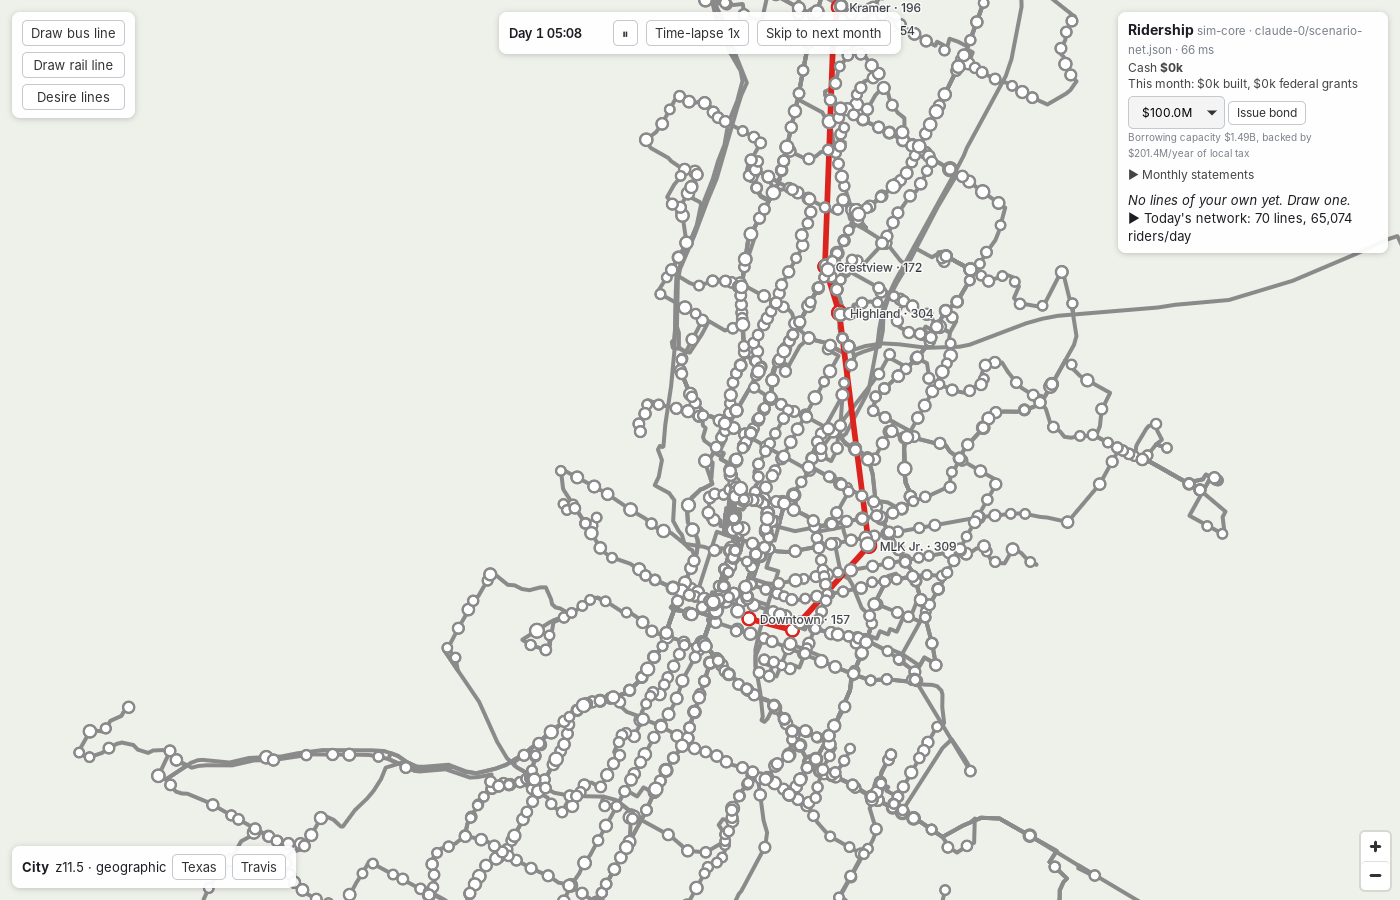
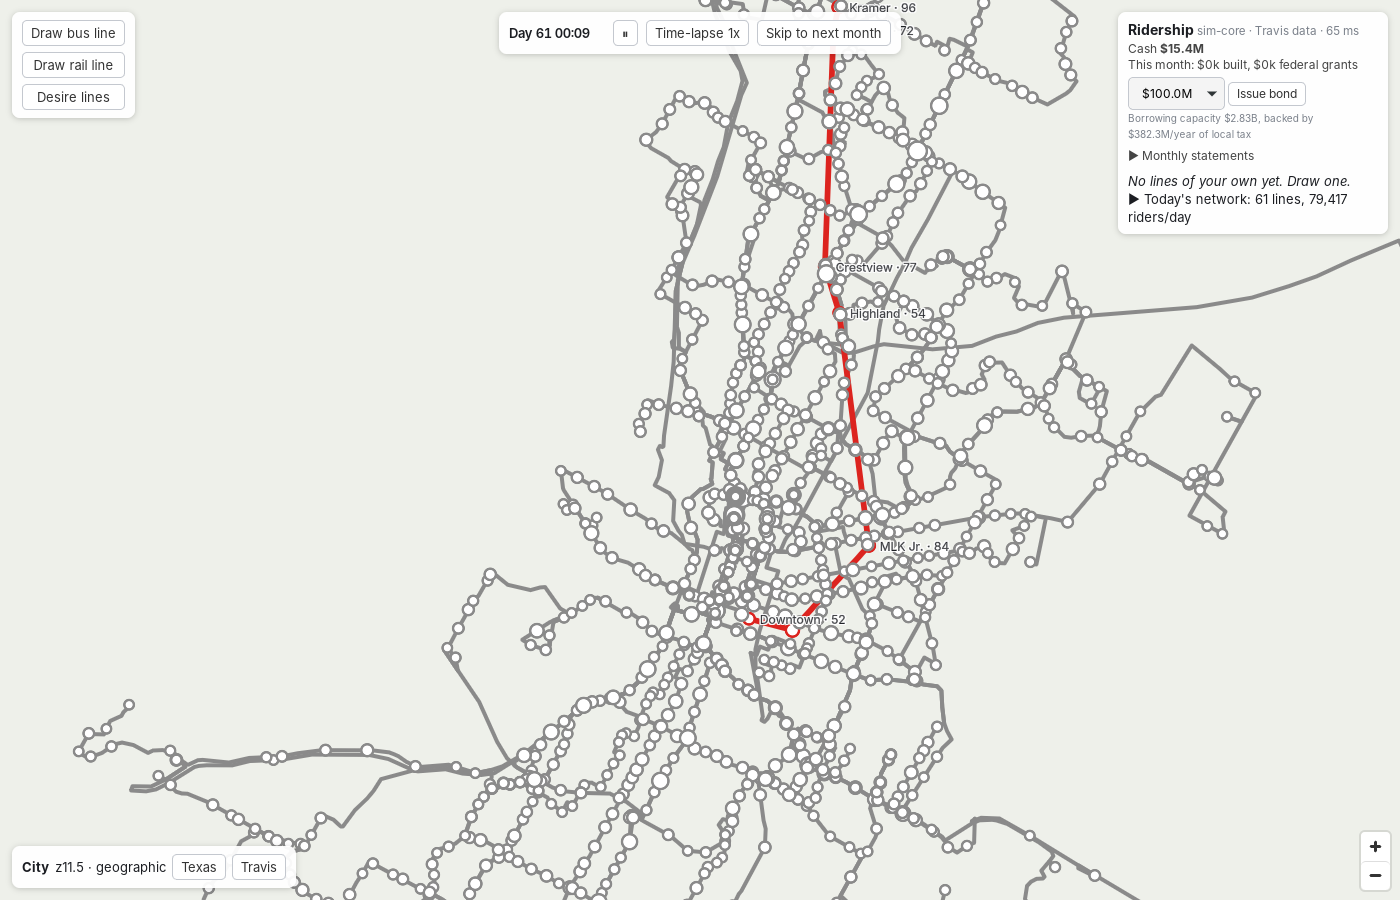
app: today's-network figures after SIM-12; rail first, busiest first in the group
Measured on the current Travis release: 61 lines, 79,417 riders/day,
$7.7M monthly surplus, $2.83B capacity; blank-map Red Line 858/day,
still bankrupt ($840M capacity vs -$996M cash). APP-4 default on.

Claude-Session: https://claude.ai/code/session_01JBKvSonH5EHUMvPz7pQaGU

diff --git a/app/src/main.ts b/app/src/main.ts
@@ -245,8 +245,12 @@ function renderPanel(): void {
     return;
   }
   const own = routes.filter((r) => !existing.has(r.id));
-  const start = routes.filter((r) => existing.has(r.id));
-  const riders = start.reduce((t, r) => t + (results.get(r.id)?.dailyRiders ?? 0), 0);
+  // Rail first, then busiest first: 60-odd rows are only scannable in that order.
+  const ridersOf = (r: RouteSpec) => results.get(r.id)?.dailyRiders ?? 0;
+  const start = routes
+    .filter((r) => existing.has(r.id))
+    .sort((a, b) => Number(isRegional(b.mode)) - Number(isRegional(a.mode)) || ridersOf(b) - ridersOf(a));
+  const riders = start.reduce((t, r) => t + ridersOf(r), 0);
   list.innerHTML =
     (own.length ? own.map(routeRow).join("") : "<em>No lines of your own yet. Draw one.</em>") +
     (start.length

diff --git a/app/src/sim/mock.ts b/app/src/sim/mock.ts
@@ -57,7 +57,7 @@ const TRIPS_PER_PERSON = 2.5; // daily trips that leave home or return to it
 const decay = (d: number) => 1 / Math.max(d, 1) ** 1.2;
 // Binary logit: utility per generalized-cost minute, and the car's constant.
 // ASC tuned so the Red Line demo (30-min headway, $3.50) lands near 2,000/day, a little above
-// APTA's ~1,500 a weekday; sim-core (SIM-10) gives 861 alone, 1,917 in today's network (docs/MOCK-SIM.md).
+// APTA's ~1,500 a weekday; sim-core (SIM-10) gives 861 alone, 1,367 in today's network (SIM-12) (docs/MOCK-SIM.md).
 const COST_COEF = 0.06;
 const ASC_CAR = 2.0;
 

diff --git a/app/README.md b/app/README.md
@@ -55,19 +55,17 @@ npm run dev         # browser only at http://localhost:1420, mock sim, no Rust n
 
 The panel header names the source: `sim-core · Travis data` or `sim-core · synthetic region`.
 
-**Starting network** (F44, decision APP-4): a scenario may carry lines present at start
-(`ScenarioInput.lines`, today's transit network, which the data pipeline is adding to
-`scenario.json`). The shell keeps them only with `TRANSPO_EXISTING_NETWORK=1`
-(`npm run tauri dev` with that variable set); otherwise it clears them and the game starts on a
-blank map. Off by default for now: with placeholder bus headways the loaded network costs about
-$670M a year to run against about $233M of tax and fares, so it also heads to bankruptcy until
-sim-core fixes the cost side. The default starting state is with Collins. When on, the lines
-are open from day 1 and already paid for. They appear grouped under **Today's network** in
-the panel (collapsed: line count and total riders), the Red Line in red and buses in gray, and
-can be edited or deleted like your own. **Add Red Line demo** is hidden because the Red Line
-is already running. Measured with CapMetro's 70 routes from `transit.json` loaded this way:
-65,074 riders/day on the network (NTD weekday about 65-70k), the Red Line at 1,609 (APTA about
-1,500), borrowing capacity $1.49B, startup about 19 s in `tauri dev`.
+**Starting network** (F44, decision APP-4): the game starts with today's CapMetro network,
+which the data pipeline writes to `existing_lines.json` beside `scenario.json` (DATA-7: 61
+lines, GTFS weekday headways). If the scenario itself carries `lines`, those are used instead.
+`TRANSPO_EXISTING_NETWORK=0` (or `off`, `false`) starts on a blank map. On by default as an
+interim call while Collins decides the starting state; it balances since sim-core SIM-12 (see
+"Scenario input" below for the figures). The lines are open from day 1 and already paid for.
+They appear grouped under **Today's network** in the panel (collapsed: line count and total
+riders; rail first, then busiest first), the Red Line in red and buses in gray, named
+"Route 801" from their route number. They can be edited, inspected or deleted like your own.
+**Add Red Line demo** is hidden when the Red Line is already running. A build without
+`existing_lines.json` starts blank.
 
 On startup, sim-core builds the scenario on a background thread. Measured in `tauri dev` (sim-core
 optimized even in dev builds, decision A16): about 11 s on the real Travis build (766 zones,
@@ -240,7 +238,7 @@ interface SimClient {
 | `preview_route` | `line: TransitLine` | sim-core `LinePreview` plus `opens_day`: `{ line: LineResult, capital_cost, federal_grant, capital_per_daily_boarding, opens_day }`. Runs under the Sim lock (sim-core adds and removes the line while it evaluates, 40 to 80 ms) |
 | `ledger` | none | sim-core `Ledger` (`cash`, `current`, `history`, `served_population`, `bonds`, `distressed_months`, `bankrupt_month`) plus `debt`, `debt_service_per_month`, `bankruptcy_months`, `bond_rate`, `bond_term_months` |
 | `issue_bond` | `principal: number` | Same as `ledger`, after borrowing. Errors on a non-positive amount or once bankrupt |
-| `existing_routes` | none | Lines present at start: `{ route_id: "e0" | "e1" | ..., line: TransitLine }[]`; empty on a blank map (the default) |
+| `existing_routes` | none | Lines present at start: `{ route_id, line: TransitLine }[]` with ids `e0`, `e1`, ...; empty on a blank map |
 | `clock` | none | `{ game_seconds, timelapse, paused, day }` (sim-core `Clock` plus whole days) |
 | `set_clock` | `paused?: boolean`, `timelapse?: number` | Same as `clock`; omitted fields unchanged, non-positive time-lapse ignored |
 | `skip_to_next_month` | none | Same as `clock`, after re-running the day and settling the month |
@@ -264,16 +262,21 @@ A `ScenarioInput` JSON file
 "Which scenario loads" above. The default is the data pipeline's real Travis County build (766
 block-group zones, 1.29M people, 948k jobs, LODES 2023 commutes, OSM roads). Without it the shell
 uses `sim_core::synth::generate(&SynthConfig::default())`, a Travis-sized synthetic region (676
-zones, 1.3M people) centered on downtown Austin. On the real build, the Red Line demo returns
-about 870 riders/day once open (Day 181) with MetroRail's real 32/51-minute headways and $3.50
-fare, against APTA's about 1,500 a weekday. That is low because the map starts empty: with mode
-constants fitted to Travis ACS commute shares (sim-core SIM-10), a rail line with no bus feeders
-loses riders. That matches sim-core's 861/day for the line alone at the same headways; inside
-today's CapMetro network it gets 1,917/day. An older data build without ACS income (every
-zone at $70k) gave about 640; re-run `npm run data` if your figure is that low. At 870 riders the line costs about $1.2M per daily rider, over
-the $600k grant gate, so it gets no federal grant: cash drops to about -$1.0B, more than the
-about $440M the line lets you borrow, and the demo heads to bankruptcy. A line edit takes under
-100 ms.
+zones, 1.3M people) centered on downtown Austin. Measured on the real build after sim-core
+SIM-12 (tax rate calibrated to CapMetro, constants refit on today's network):
+
+- **With today's network** (the default): 61 lines, 79,417 riders/day, the Red Line at 1,373
+  (APTA about 1,500; sim-core 1,367). Each month settles at fares $3.1M, operating assistance
+  $4.5M and local tax $31.9M against $31.8M operating cost: a $7.7M surplus. Borrowing capacity
+  $2.83B on $382M/year of pledged tax. Startup about 17 s in `tauri dev`.
+- **Blank map, Red Line demo alone** (`TRANSPO_EXISTING_NETWORK=0`): 858 riders/day at Day 181
+  (sim-core 861 to 893). A rail line with no bus feeders loses riders. At about $1.2M per daily
+  rider it misses the $600k grant gate, so cash drops to about -$1.0B. The line pledges $114M/year
+  of tax and can borrow $840M, which still leaves cash below zero, and its $8.2M monthly surplus
+  cannot close the gap within the 12 distressed months, so the demo still heads to bankruptcy.
+
+An older data build without ACS income (every zone at $70k) gives far lower ridership; re-run
+`npm run data` if your figures are well below these. A line edit takes under 100 ms.
 
 ## Design and rationale
 

diff --git a/docs/DECISIONS.md b/docs/DECISIONS.md
@@ -62,7 +62,7 @@ Detailed app decisions also live in [app/docs/DECISIONS.md](../app/docs/DECISION
 | APP-1 | 2026-11-27 | sim-core owns the game clock: a worker thread in the desktop shell calls `Sim::tick` every 100 ms under the Sim lock; the client polls `clock` and interpolates | One clock for every tier; polling needs no event plumbing and the day number tells the client when to re-read results | As built | [app A23](../app/docs/DECISIONS.md) |
 | APP-2 | 2026-11-27 | The desktop app opens on the pipeline's published Travis build by default: `npm run data` runs `crates/data-pipeline/scripts/download-build.sh`, and the shell loads `crates/data-pipeline/data/out/48453-2023/scenario.json` if present (after `TRANSPO_SCENARIO`, before the synthetic region) | Real roads and commutes in every dev checkout with one command; reuses DATA-1's release instead of committing data; the synthetic fallback keeps CI offline | As built | [app A24](../app/docs/DECISIONS.md) |
 | APP-3 | 2026-11-27 | The desktop app runs sim-core with `instant_build: false` (construction period on, SIM-1); lines under construction come from `Sim::pending_lines` and draw faded with their opening day | SIM-1 deferred the switch until the app could show pending lines; it now can | As built | [app A25](../app/docs/DECISIONS.md) |
-| APP-4 | 2026-11-27 | The app starts on a blank map by default; `TRANSPO_EXISTING_NETWORK=1` keeps the scenario's lines present at start (today's CapMetro network) as editable routes grouped in the panel | Interim call while Collins chooses the starting state: with placeholder bus headways the loaded network runs at about $670M/yr against about $233M of tax and fares (sim-core), so it would also start toward bankruptcy; matches F44's "removed by default, toggle to keep". Flip the default when the budget balances | As built (provisional) | [app README](../app/README.md#run) |
+| APP-4 | 2026-11-27 | The app starts with today's CapMetro network (`existing_lines.json`, DATA-7) as editable routes grouped in the panel; `TRANSPO_EXISTING_NETWORK=0` starts on a blank map | Interim coordinator call while Collins chooses the starting state: a blank map's first rail line cannot be financed and ends in bankruptcy, while today's network balances since SIM-12 ($7.7M monthly surplus, $2.83B borrowing capacity measured in the app). Departs from F44's "removed by default" until Collins decides | As built (provisional) | [app README](../app/README.md#run) |
 
 ## Project and docs (DOC)
 

diff --git a/docs/ROADMAP.md b/docs/ROADMAP.md
@@ -174,7 +174,7 @@ Goal: the readable statewide map, a way in for new players, and a shippable buil
 | F41 | Tube-style schematic at State and Region zoom: octilinear heuristic layout (0/45/90°), even station spacing, line colors, interchange rings; recomputed on network change; player pins survive re-layout | app, core | F37 | Schematic readable for a 10-line statewide network. Fallback if not: smoothed geographic lines | Prototype (#2): heuristic octilinear layout, no pins. See [SCHEMATIC.md](../app/docs/SCHEMATIC.md) |
 | F42 | Morph between schematic and true geography across the Region-to-City zoom band | app | F41 | No line jumps or disappears while zooming | Prototype (#2) |
 | F43 | Save and load: aggregate state plus seeds, never agents | core, app | F36 | Load restores identical results and the same agents on screen | Planned |
-| F44 | Starting map: real roads present, existing transit removed by default, toggle to keep it (from the pipeline's transit output) | core, app | F02, F43 | New game offers both starts | Partial (app): `TRANSPO_EXISTING_NETWORK=1` keeps the scenario's existing lines as editable routes (APP-4); blank map by default; no in-game choice yet; pipeline writing the lines into scenario.json |
+| F44 | Starting map: real roads present, existing transit removed by default, toggle to keep it (from the pipeline's transit output) | core, app | F02, F43 | New game offers both starts | Partial (app): starts with today's CapMetro network from `existing_lines.json` as editable routes; `TRANSPO_EXISTING_NETWORK=0` for a blank map (APP-4, provisional default); no in-game choice yet |
 | F45 | Onboarding: a guided first session (read demand, draw a line, see ridership and budget respond). No win condition, per D15 | app, core | F27, F41 | A new player completes it without help | Planned |
 | F46 | Packaging: desktop installers, OSM/ODbL attribution screen, data-licence review done | app | F33 | Installer runs on a clean machine; ODbL question answered before any sale | Planned |
 | F47 | MVP playtest | all | F41–F46 | **60 minutes of play on the full Texas map** | Planned |

diff --git a/app/docs/ROADMAP-APP.md b/app/docs/ROADMAP-APP.md
@@ -26,13 +26,14 @@ doc.
   opening day in the panel and the drawing hint (F24) (#27)
 - Real Red Line preset: OSM route 550 stations, $3.50 fare, 32/51-minute
   peak/off-peak headways (`offpeakHeadwayMin`); about 870 riders/day alone on an empty map
-  since SIM-10 (APTA 1,500; sim-core 1,917 inside today's network) (#31, #38)
+  (858 measured; APTA 1,500; 1,373 inside today's network) (#31, #38, #54)
 - Monthly statements: last two closed months under the budget (F26)
 - Line inspector: boardings by stop, segment loads both ways, peak load vs capacity (F17)
 - Bus lines drawn along the streets from sim-core's `segment_shapes`, draft included (SIM-8, A29)
 - Bond menu capped at borrowing capacity; financing warning in the build preview (SIM-9, A30)
-- Starting network setting: `TRANSPO_EXISTING_NETWORK=1` keeps the scenario's existing lines,
-  grouped under "Today's network" (F44, APP-4, A31); off by default until the budget balances.
+- Starts with today's CapMetro network from `existing_lines.json` (61 lines, 79k riders/day,
+  $7.7M monthly surplus), grouped under "Today's network"; `TRANSPO_EXISTING_NETWORK=0` for a
+  blank map (F44, APP-4, A31).
   Next: an in-app new-game choice instead of an environment variable
 - Bonds (issue from the budget panel), debt and payments, distress count and
   bankruptcy banner (F26)

diff --git a/app/docs/ARCHITECTURE.md b/app/docs/ARCHITECTURE.md
@@ -143,13 +143,14 @@ them.
 
 sim-core treats `ScenarioInput.lines` as existing service: LineIds 0..n in
 input order, open on day 0, capital already paid, stops in the tax base.
-`load_scenario` clears them unless `network::wanted()` (the
-`TRANSPO_EXISTING_NETWORK` setting) says to keep them. `start_with_params`
+`load_scenario` clears them when `network::wanted()` is false
+(`TRANSPO_EXISTING_NETWORK=0`), and otherwise, if the scenario has none,
+fills them from `existing_lines.json` beside it (`network::load`). `start_with_params`
 records the kept lines before `Sim::new` and maps client ids `e0..en` to
 LineIds `0..n`, so every later command treats them like client routes;
 `existing_routes` hands them to the client. `TauriSim.existingRoutes`
-converts them (`fromExisting`) and registers them for result mapping;
-`main.ts` colors them, groups them under a collapsed `<details id="existing">`
+converts them (`fromExisting`, which names bare route numbers "Route N" and 550 "Red Line") and registers them for result mapping;
+`main.ts` colors them, groups them (rail first, then by riders) under a collapsed `<details id="existing">`
 in the panel and hides the Red Line demo when the network already has it.
 
 ### Street paths for bus lines (SIM-8)

diff --git a/app/docs/MOCK-SIM.md b/app/docs/MOCK-SIM.md
@@ -77,7 +77,7 @@ pipeline's Travis build, MetroRail's $3.50 fare) returns about **1,970 weekday
 riders**; the preset itself now uses 32 minutes (about 1,750 in the mock). `ASC_CAR = 2.0`
 was tuned to land a little above APTA's ~1,500 a weekday. sim-core has since
 been fitted to Travis ACS commute shares (SIM-10) and gives 861/day for the
-line alone and 1,917/day inside today's network, so the mock sits between the
+line alone and 1,367/day inside today's network (SIM-12), so the mock sits between the
 two; it is not re-tuned because it exists for UI work, not forecasts. A 10-stop bus line on the
 Guadalupe/Lamar corridor gives about 1,100 at 15 minutes and 1,500 at
 10 minutes, below the real 801/1-corridor numbers; acceptable for a mock.

diff --git a/app/docs/DECISIONS.md b/app/docs/DECISIONS.md
@@ -230,5 +230,5 @@ The shell names lines present at start `e0..en` and maps them to sim-core's
 LineIds, so the client edits, deletes, inspects and draws them through the
 same paths as lines the player drew. A separate read-only layer would need
 its own results mapping and would stop the player changing a real route.
-They are grouped in a collapsed section because 70 rows would bury the
+They are grouped in a collapsed section because 61 rows would bury the
 player's own lines.
